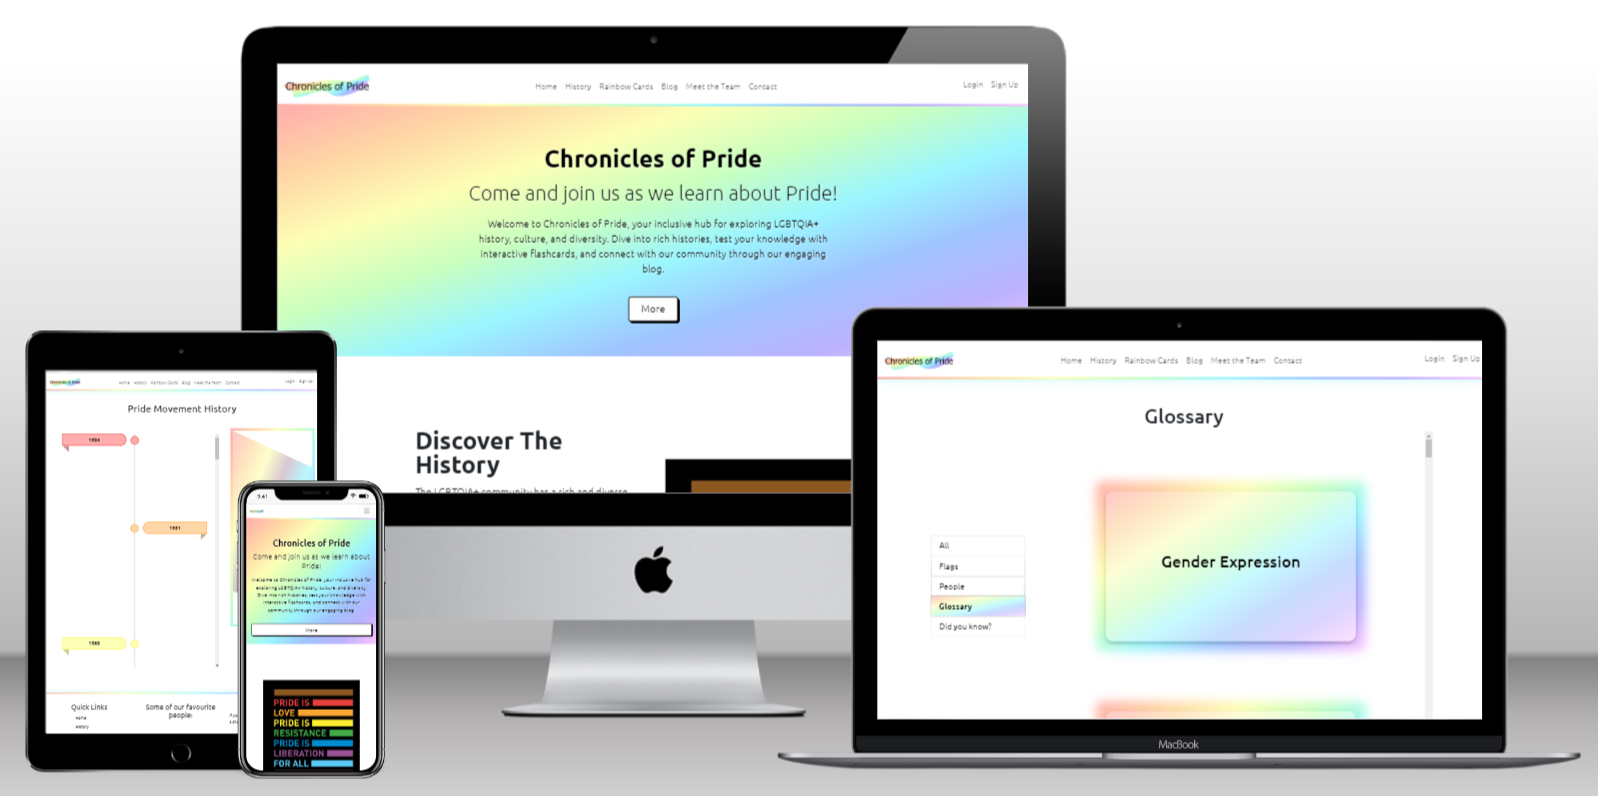
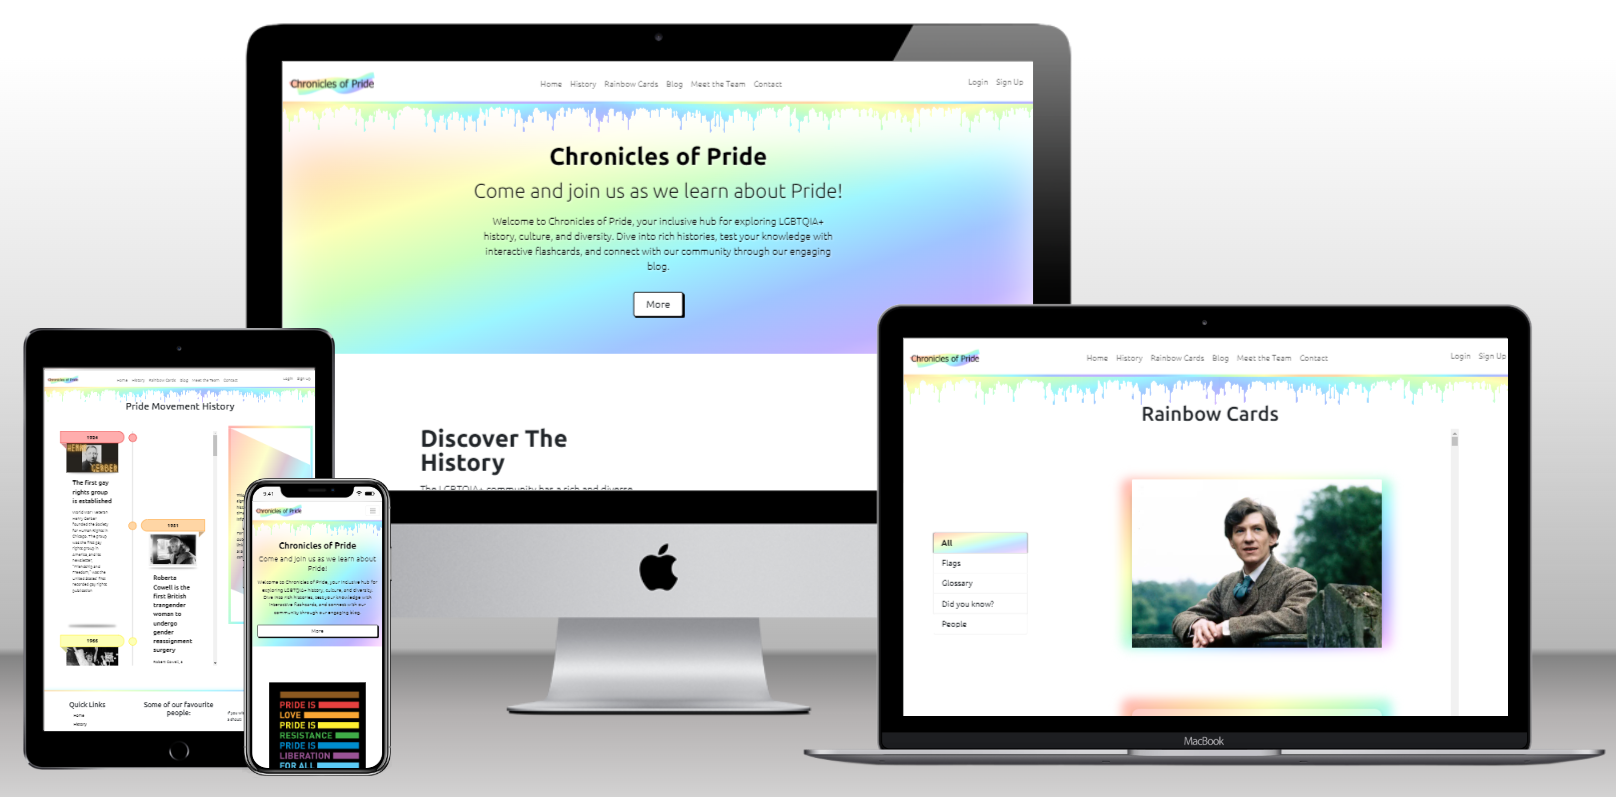
added hackathon badge

Changed region(s): [[0.0, 0.0302, 1.0, 0.995], [0.6746, 0.603, 0.8892, 0.8442], [0.3373, 0.6935, 0.4906, 0.7839]]

diff --git a/templates/base.html b/templates/base.html
@@ -37,7 +37,7 @@
       <!-- Brand Name -->
       <a class="col-1 navbar-brand mt-lg-2" href="{% url 'home' %}">
         {% comment %} <span class="brand ms-3">Chronicles of Pride</span> {% endcomment %}
-         <img src="{% static "../static/images/logo.png" %}">
+        <img src="{% static "../static/images/logo.png" %}">
       </a>
       <!-- Toggle Button for Mobile View -->
       <button class="navbar-toggler" type="button" data-bs-toggle="collapse" data-bs-target="#navbarText"
@@ -105,8 +105,8 @@
     </div>
   </nav>
 
-<!-- Displaying Django Messages -->
-{% if messages %}
+  <!-- Displaying Django Messages -->
+  {% if messages %}
   <div class="container">
     <div class="row">
       <div id="alert-message" class="col-md-8 offset-md-2 text-center popup-message">
@@ -118,7 +118,7 @@
       </div>
     </div>
   </div>
-{% endif %}
+  {% endif %}
 
   <!-- Main Content Area -->
   <main class="flex-shrink-0 transparent-bg">
@@ -162,12 +162,30 @@
         </div>
       </div>
       <div class="col-lg-4 mt-4">
-        <h3>
-          <a class="footer-title contact-us" href="{% url 'contact' %}">
-            <span class="contact-text">Contact Us!</span>
-          </a>
-        </h3>
-        <p class="d-flex justify-content-center">If you wish to share something with us. Give us a shout!</p>
+        <div class="footer-content">
+          <h3>
+            <a class="footer-title contact-us" href="{% url 'contact' %}">
+              <span class="contact-text">Contact Us!</span>
+            </a>
+          </h3>
+          <p class="d-flex justify-content-center">If you wish to share something with us. Give us a shout!</p>
+          <blockquote class="badgr-badge">
+            <a href="https://api.eu.badgr.io/public/assertions/yHT8TjDBSd69DhrfmYf2cg" target="_blank" rel="noopener"
+            aria-label="Opens up the page displaying the badge, note this is an individuals badge relabeled for the team. (opens in a new tab)">
+                <img width="120px" height="120px" src="https://api.eu.badgr.io/public/assertions/yHT8TjDBSd69DhrfmYf2cg/image" alt="Bronze medal badge image from July 2024 Code Institute Hackathon.">
+            </a>
+            <p class="badgr-badge-name">July 2024 Hackathon: 3rd Place</p>
+            <p class="badgr-badge-date">
+                <strong>Awarded:</strong> Jul 29, 2024
+            </p>
+            <p class="badgr-badge-recipient">
+                <strong>Awarded To:</strong> <span>Prideful Pixels</span>
+            </p>
+            <p class="verify-txt">
+              (Please note this is a personal badge, renamed for the entire team.)
+            </p>
+          </blockquote>
+        </div>
       </div>
     </div>
     <div class="m-0">
@@ -178,12 +196,15 @@
     </div>
   </footer>
 
+  <!-- Hackathon Badge -->
+  <script async="async" src="https://eu.badgr.com/assets/widgets.bundle.js"></script>
+
   <!-- JavaScript for pop-up message -->
   <script>
-    document.addEventListener("DOMContentLoaded", function() {
+    document.addEventListener("DOMContentLoaded", function () {
       var alert = document.getElementById("alert-message");
       if (alert) {
-        setTimeout(function() {
+        setTimeout(function () {
           alert.style.display = 'none';
         }, 3000);
       }

diff --git a/static/css/style.css b/static/css/style.css
@@ -49,8 +49,8 @@ footer {
   border-bottom: 5px solid transparent;
   /* border-image: linear-gradient(to right, #ffadad, #ffd6a5, #fdffb6, #caffbf,
       #9bf6ff, #a0c4ff, #bdb2ff, #ffc6ff) 1; */
-      border-image: linear-gradient(to right, #ffd6a5, #fdffb6, #caffbf,
-      #9bf6ff, #a0c4ff, #bdb2ff, #bdb2ff, #a0c4ff, #9bf6ff, 
+  border-image: linear-gradient(to right, #ffd6a5, #fdffb6, #caffbf,
+      #9bf6ff, #a0c4ff, #bdb2ff, #bdb2ff, #a0c4ff, #9bf6ff,
       #caffbf, #fdffb6, #ffd6a5, #ffd6a5, #fdffb6, #caffbf,
       #9bf6ff, #a0c4ff, #bdb2ff) 1;
   box-shadow: 0 0 15px #b8f9ff;
@@ -285,17 +285,86 @@ footer {
   left: 0;
 }
 
+.footer-title {
+  text-align: center;
+}
+
+.footer-content {
+  display: flex;
+  justify-content: center;
+  align-items: center;
+  flex-direction: column;
+  text-align: center;
+}
+
+.badgr-badge {
+  display: flex;
+  flex-direction: column;
+  align-items: center;
+  font-family: Helvetica, Roboto, "Segoe UI", Calibri, sans-serif;
+  margin: 0; /* Reset default margin */
+  padding: 0; /* Reset default padding */
+}
+
+.badgr-badge img {
+  margin-bottom: 10px;
+}
+
+.badgr-badge-name,
+.badgr-badge-date,
+.badgr-badge-recipient,
+.verify-txt {
+  text-align: center;
+}
+
+.badgr-badge-name {
+  hyphens: auto;
+  overflow-wrap: break-word;
+  word-wrap: break-word;
+  margin: 0;
+  font-size: 16px;
+  font-weight: 600;
+  line-height: 1.25;
+  color: #05012c;
+}
+
+.badgr-badge-date,
+.badgr-badge-recipient {
+  margin: 0;
+  font-size: 12px;
+  line-height: 1.67;
+  color: #555555;
+}
+
+.badgr-badge-date strong,
+.badgr-badge-recipient strong {
+  font-size: 12px;
+  font-weight: bold;
+  line-height: 1.67;
+  color: #000;
+}
+
+.verify-txt {
+  font-family: Ubuntu, sans-serif;
+  font-weight: 100;
+  font-size: x-small;
+  white-space: normal;
+  margin: 0;
+}
+
 .copyright {
   background-image: linear-gradient(to bottom right, #ffadad, #ffd6a5, #fdffb6, #caffbf, #9bf6ff, #a0c4ff, #bdb2ff, #ffc6ff);
 }
 
 @media (min-width: 300px) {
-  nav, footer {
+
+  nav,
+  footer {
     border-image: linear-gradient(to right, #ffd6a5, #fdffb6, #caffbf,
-  #9bf6ff, #a0c4ff, #bdb2ff) 1;
+        #9bf6ff, #a0c4ff, #bdb2ff) 1;
   }
 
-.drip {
+  .drip {
     height: 40px;
   }
 }
@@ -325,11 +394,12 @@ footer {
 }
 
 @media (min-width: 1110px) {
+
   nav,
   footer {
     border-image: linear-gradient(to right, #ffd6a5, #fdffb6, #caffbf,
-  #9bf6ff, #a0c4ff, #bdb2ff, #bdb2ff, #a0c4ff, #9bf6ff, 
-  #caffbf, #fdffb6, #ffd6a5, #ffd6a5, #fdffb6, #caffbf,
-  #9bf6ff, #a0c4ff, #bdb2ff) 1;
+        #9bf6ff, #a0c4ff, #bdb2ff, #bdb2ff, #a0c4ff, #9bf6ff,
+        #caffbf, #fdffb6, #ffd6a5, #ffd6a5, #fdffb6, #caffbf,
+        #9bf6ff, #a0c4ff, #bdb2ff) 1;
   }
 }

diff --git a/staticfiles/css/style.css b/staticfiles/css/style.css
@@ -49,8 +49,8 @@ footer {
   border-bottom: 5px solid transparent;
   /* border-image: linear-gradient(to right, #ffadad, #ffd6a5, #fdffb6, #caffbf,
       #9bf6ff, #a0c4ff, #bdb2ff, #ffc6ff) 1; */
-      border-image: linear-gradient(to right, #ffd6a5, #fdffb6, #caffbf,
-      #9bf6ff, #a0c4ff, #bdb2ff, #bdb2ff, #a0c4ff, #9bf6ff, 
+  border-image: linear-gradient(to right, #ffd6a5, #fdffb6, #caffbf,
+      #9bf6ff, #a0c4ff, #bdb2ff, #bdb2ff, #a0c4ff, #9bf6ff,
       #caffbf, #fdffb6, #ffd6a5, #ffd6a5, #fdffb6, #caffbf,
       #9bf6ff, #a0c4ff, #bdb2ff) 1;
   box-shadow: 0 0 15px #b8f9ff;
@@ -285,17 +285,86 @@ footer {
   left: 0;
 }
 
+.footer-title {
+  text-align: center;
+}
+
+.footer-content {
+  display: flex;
+  justify-content: center;
+  align-items: center;
+  flex-direction: column;
+  text-align: center;
+}
+
+.badgr-badge {
+  display: flex;
+  flex-direction: column;
+  align-items: center;
+  font-family: Helvetica, Roboto, "Segoe UI", Calibri, sans-serif;
+  margin: 0; /* Reset default margin */
+  padding: 0; /* Reset default padding */
+}
+
+.badgr-badge img {
+  margin-bottom: 10px;
+}
+
+.badgr-badge-name,
+.badgr-badge-date,
+.badgr-badge-recipient,
+.verify-txt {
+  text-align: center;
+}
+
+.badgr-badge-name {
+  hyphens: auto;
+  overflow-wrap: break-word;
+  word-wrap: break-word;
+  margin: 0;
+  font-size: 16px;
+  font-weight: 600;
+  line-height: 1.25;
+  color: #05012c;
+}
+
+.badgr-badge-date,
+.badgr-badge-recipient {
+  margin: 0;
+  font-size: 12px;
+  line-height: 1.67;
+  color: #555555;
+}
+
+.badgr-badge-date strong,
+.badgr-badge-recipient strong {
+  font-size: 12px;
+  font-weight: bold;
+  line-height: 1.67;
+  color: #000;
+}
+
+.verify-txt {
+  font-family: Ubuntu, sans-serif;
+  font-weight: 100;
+  font-size: x-small;
+  white-space: normal;
+  margin: 0;
+}
+
 .copyright {
   background-image: linear-gradient(to bottom right, #ffadad, #ffd6a5, #fdffb6, #caffbf, #9bf6ff, #a0c4ff, #bdb2ff, #ffc6ff);
 }
 
 @media (min-width: 300px) {
-  nav, footer {
+
+  nav,
+  footer {
     border-image: linear-gradient(to right, #ffd6a5, #fdffb6, #caffbf,
-  #9bf6ff, #a0c4ff, #bdb2ff) 1;
+        #9bf6ff, #a0c4ff, #bdb2ff) 1;
   }
 
-.drip {
+  .drip {
     height: 40px;
   }
 }
@@ -325,11 +394,12 @@ footer {
 }
 
 @media (min-width: 1110px) {
+
   nav,
   footer {
     border-image: linear-gradient(to right, #ffd6a5, #fdffb6, #caffbf,
-  #9bf6ff, #a0c4ff, #bdb2ff, #bdb2ff, #a0c4ff, #9bf6ff, 
-  #caffbf, #fdffb6, #ffd6a5, #ffd6a5, #fdffb6, #caffbf,
-  #9bf6ff, #a0c4ff, #bdb2ff) 1;
+        #9bf6ff, #a0c4ff, #bdb2ff, #bdb2ff, #a0c4ff, #9bf6ff,
+        #caffbf, #fdffb6, #ffd6a5, #ffd6a5, #fdffb6, #caffbf,
+        #9bf6ff, #a0c4ff, #bdb2ff) 1;
   }
 }
